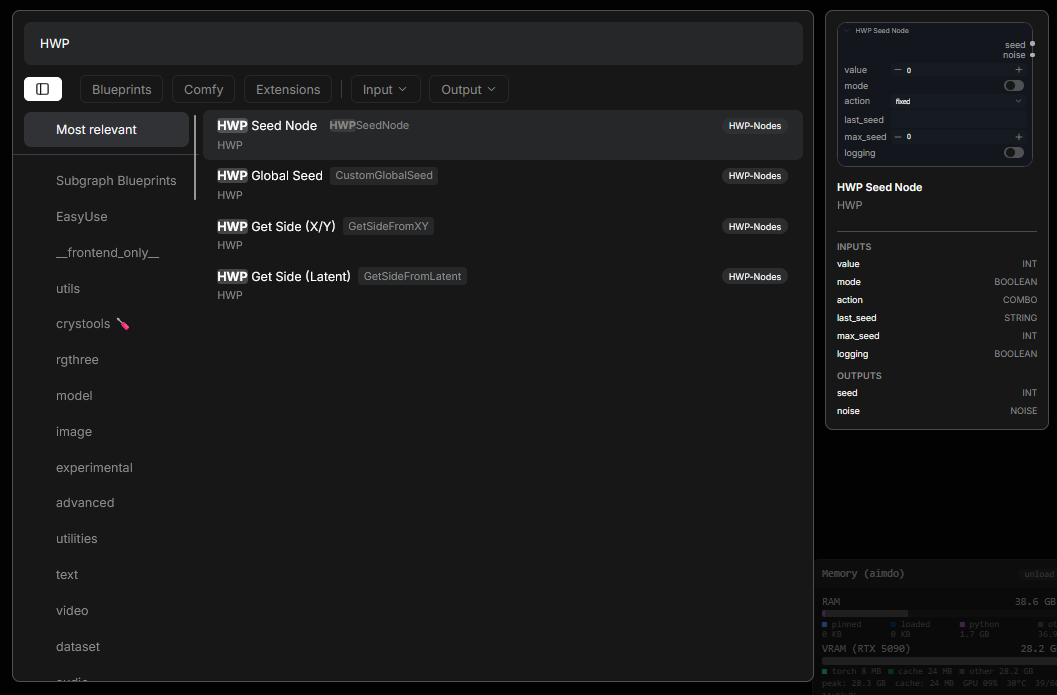
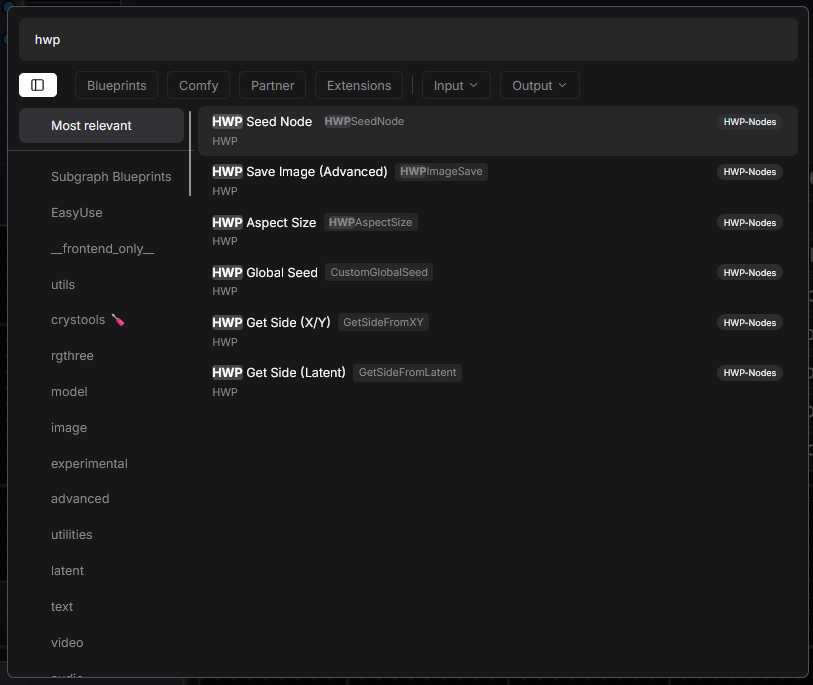
Seed nodes: hover tooltips on every widget (Global Seed + Seed Node) + refreshed node-search screenshot - [Unreleased] in CHANGELOG, no version bump, no release

diff --git a/nodes/global_seed.py b/nodes/global_seed.py
@@ -234,14 +234,19 @@ class CustomGlobalSeed:
     def INPUT_TYPES(cls):
         return {
             "required": {
-                "value": ("INT", {"default": 0, "min": 0, "max": 0xffffffffffffffff}),
+                "value": ("INT", {"default": 0, "min": 0, "max": 0xffffffffffffffff,
+                            "tooltip": "Base seed. The resolved value is broadcast to every seed / seed_num / noise_seed int widget in the workflow, and $GlobalSeed.value$ inside any string input is replaced with it. The noise output is NOT broadcast - wire it to a NOISE input."}),
             },
             "optional": {
-                "mode": ("BOOLEAN", {"default": True, "label_on": "control_before_generate", "label_off": "control_after_generate"}),
-                "action": (["fixed", "increment", "decrement", "randomize", "increment for each node", "decrement for each node", "randomize for each node"],),
-                "last_seed": ("STRING", {"default": "", "multiline": False}),
+                "mode": ("BOOLEAN", {"default": True, "label_on": "control_before_generate", "label_off": "control_after_generate",
+                                     "tooltip": "control_before_generate: the next seed is computed before the prompt runs, so this run uses the new value. control_after_generate: this run uses the current value and the next one is prepared for the following queue."}),
+                "action": (["fixed", "increment", "decrement", "randomize", "increment for each node", "decrement for each node", "randomize for each node"], {
+                    "tooltip": "How the seed advances. fixed keeps the value; increment / decrement / randomize move it once per run. The 'for each node' variants give every downstream seed widget its own successive value (value, value+1, value+2, ...)."}),
+                "last_seed": ("STRING", {"default": "", "multiline": False,
+                                         "tooltip": "Shows the seed used by the previous run - rewritten only when the seed actually changed, so repeated runs of the same seed leave it untouched. Editable: type a seed here to keep it as a note."}),
                 "max_seed": ("INT", {"default": 0, "min": 0, "max": 0xffffffffffffffff, "tooltip": "Maximum seed value (0 = default: 1125899906842624)"}),
-                "logging": ("BOOLEAN", {"default": False, "label_on": "verbose", "label_off": "default"}),
+                "logging": ("BOOLEAN", {"default": False, "label_on": "verbose", "label_off": "default",
+                                        "tooltip": "default logs one summary line per run; verbose also logs every per-node seed update."}),
             },
             "hidden": {
                 "unique_id": "UNIQUE_ID",

diff --git a/nodes/seed_node.py b/nodes/seed_node.py
@@ -150,14 +150,19 @@ class HWPSeedNode:
     def INPUT_TYPES(cls):
         return {
             "required": {
-                "value": ("INT", {"default": 0, "min": 0, "max": 0xffffffffffffffff}),
+                "value": ("INT", {"default": 0, "min": 0, "max": 0xffffffffffffffff,
+                            "tooltip": "Base seed. This node broadcasts nothing: the seed and noise outputs only reach the node(s) you wire them to."}),
             },
             "optional": {
-                "mode": ("BOOLEAN", {"default": True, "label_on": "control_before_generate", "label_off": "control_after_generate"}),
-                "action": (_ACTIONS,),
-                "last_seed": ("STRING", {"default": "", "multiline": False}),
+                "mode": ("BOOLEAN", {"default": True, "label_on": "control_before_generate", "label_off": "control_after_generate",
+                                     "tooltip": "control_before_generate: the next seed is computed before the prompt runs, so this run uses the new value. control_after_generate: this run uses the current value and the next one is prepared for the following queue."}),
+                "action": (_ACTIONS, {
+                    "tooltip": "How the seed advances. fixed keeps the value; increment / decrement / randomize move it once per run, wrapping at max_seed."}),
+                "last_seed": ("STRING", {"default": "", "multiline": False,
+                                         "tooltip": "Shows the seed used by the previous run - rewritten only when the seed actually changed, so repeated runs of the same seed leave it untouched. Editable: type a seed here to keep it as a note."}),
                 "max_seed": ("INT", {"default": 0, "min": 0, "max": 0xffffffffffffffff, "tooltip": "Maximum seed value (0 = default: 1125899906842624)"}),
-                "logging": ("BOOLEAN", {"default": False, "label_on": "verbose", "label_off": "default"}),
+                "logging": ("BOOLEAN", {"default": False, "label_on": "verbose", "label_off": "default",
+                                        "tooltip": "default logs one summary line per run; verbose also logs the per-run seed detail."}),
             },
             "hidden": {
                 "unique_id": "UNIQUE_ID",

diff --git a/CHANGELOG.md b/CHANGELOG.md
@@ -5,6 +5,14 @@ All notable changes to this project are documented in this file.
 Format follows [Keep a Changelog](https://keepachangelog.com/en/1.1.0/);
 versions follow [Semantic Versioning](https://semver.org/).
 
+## [Unreleased]
+
+### Added
+- **HWP Global Seed** and **HWP Seed Node**: hover tooltips on every widget (the same mechanism the HWP Aspect Size tooltips have used since v0.9.9) - the base seed and how it reaches the rest of the workflow (**broadcast** on HWP Global Seed, **wired only** on HWP Seed Node, and the `noise` output is always wired on both), the `control_before_generate` / `control_after_generate` timing, the seed actions including the `... for each node` variants, the `last_seed` field, and the verbose logging toggle. Frontend only - no behaviour change, no version bump.
+
+### Changed
+- **Documentation**: the “Finding the nodes” screenshot is refreshed - it now shows all 6 nodes of the pack (HWP Seed Node, HWP Save Image (Advanced), HWP Aspect Size, HWP Global Seed, HWP Get Side (X/Y), HWP Get Side (Latent)).
+
 ## [0.9.11] - 2026-10-07
 
 ### Added
